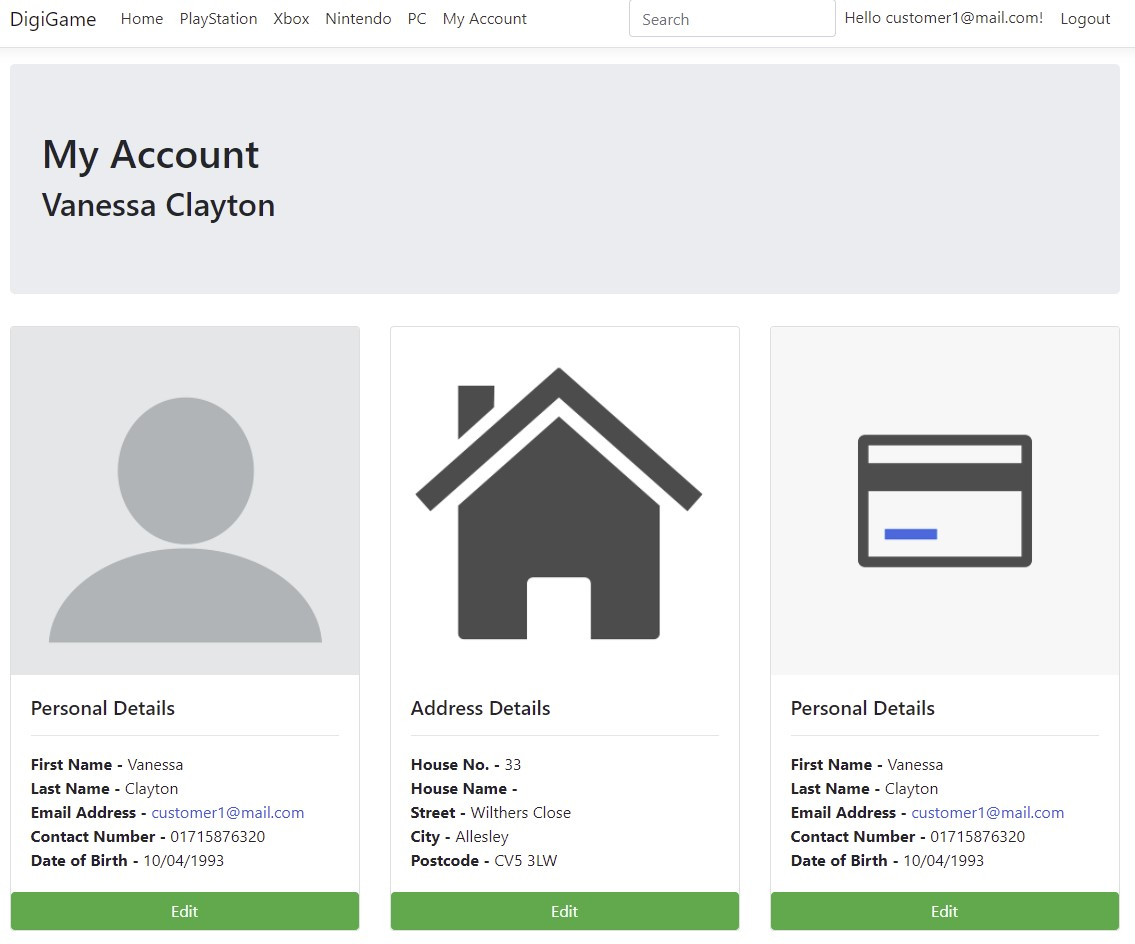
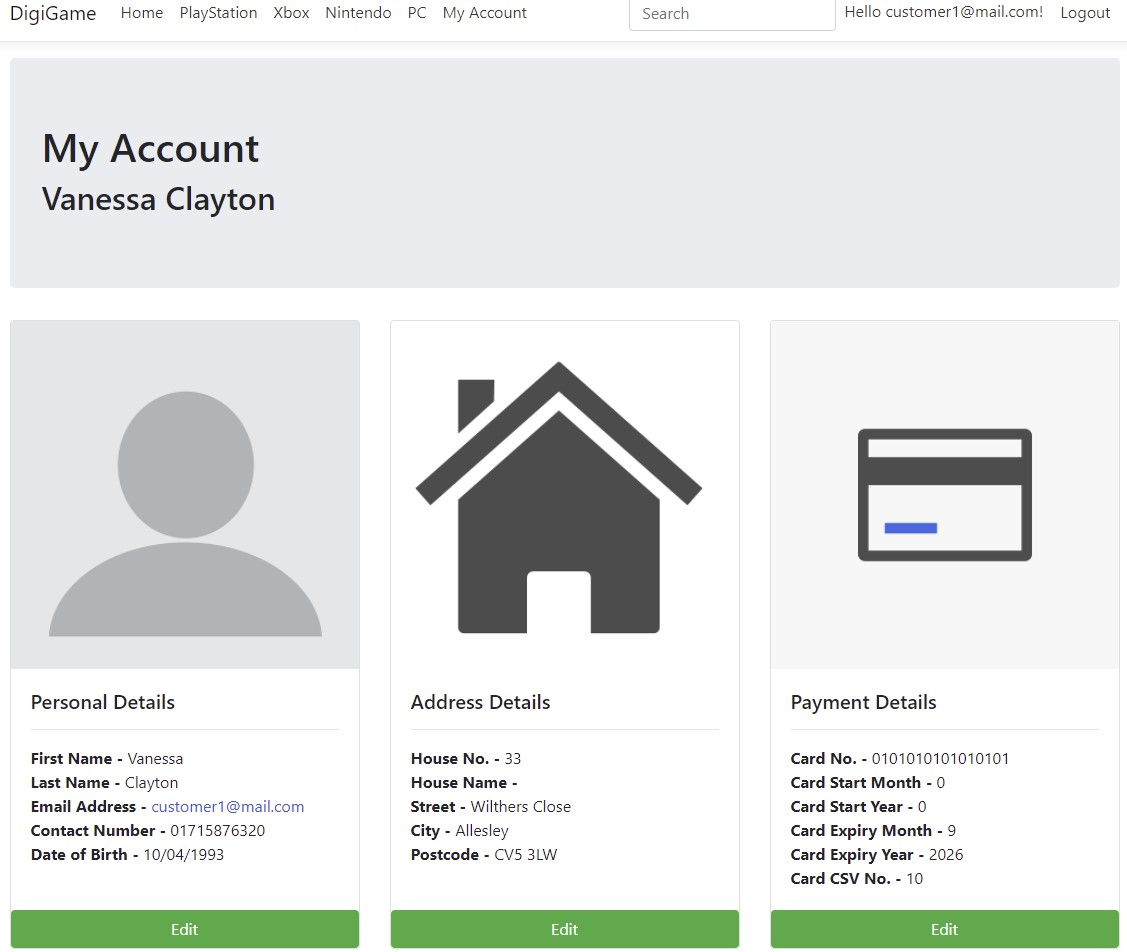
Fixed tests 16-17 and 19-20. Also added more test screenshots.

diff --git a/ASP-Razor-TeamEXPFarmers/Data/Migrations/20220126140607_NullableStaff.cs b/ASP-Razor-TeamEXPFarmers/Data/Migrations/20220126140607_NullableStaff.cs
@@ -1,0 +1,139 @@
+using Microsoft.EntityFrameworkCore.Migrations;
+
+namespace ASP_Razor_TeamEXPFarmers.Migrations
+{
+    public partial class NullableStaff : Migration
+    {
+        protected override void Up(MigrationBuilder migrationBuilder)
+        {
+            migrationBuilder.DropForeignKey(
+                name: "FK_Customers_Address_AddressID",
+                table: "Customers");
+
+            migrationBuilder.DropForeignKey(
+                name: "FK_Customers_Payment_PaymentID",
+                table: "Customers");
+
+            migrationBuilder.AlterColumn<string>(
+                name: "URL",
+                table: "GameImages",
+                type: "nvarchar(200)",
+                maxLength: 200,
+                nullable: false,
+                defaultValue: "",
+                oldClrType: typeof(string),
+                oldType: "nvarchar(max)",
+                oldNullable: true);
+
+            migrationBuilder.AlterColumn<string>(
+                name: "Caption",
+                table: "GameImages",
+                type: "nvarchar(50)",
+                maxLength: 50,
+                nullable: false,
+                defaultValue: "",
+                oldClrType: typeof(string),
+                oldType: "nvarchar(50)",
+                oldMaxLength: 50,
+                oldNullable: true);
+
+            migrationBuilder.AlterColumn<int>(
+                name: "PaymentID",
+                table: "Customers",
+                type: "int",
+                nullable: true,
+                oldClrType: typeof(int),
+                oldType: "int");
+
+            migrationBuilder.AlterColumn<int>(
+                name: "AddressID",
+                table: "Customers",
+                type: "int",
+                nullable: true,
+                oldClrType: typeof(int),
+                oldType: "int");
+
+            migrationBuilder.AddForeignKey(
+                name: "FK_Customers_Address_AddressID",
+                table: "Customers",
+                column: "AddressID",
+                principalTable: "Address",
+                principalColumn: "AddressID",
+                onDelete: ReferentialAction.Restrict);
+
+            migrationBuilder.AddForeignKey(
+                name: "FK_Customers_Payment_PaymentID",
+                table: "Customers",
+                column: "PaymentID",
+                principalTable: "Payment",
+                principalColumn: "PaymentID",
+                onDelete: ReferentialAction.Restrict);
+        }
+
+        protected override void Down(MigrationBuilder migrationBuilder)
+        {
+            migrationBuilder.DropForeignKey(
+                name: "FK_Customers_Address_AddressID",
+                table: "Customers");
+
+            migrationBuilder.DropForeignKey(
+                name: "FK_Customers_Payment_PaymentID",
+                table: "Customers");
+
+            migrationBuilder.AlterColumn<string>(
+                name: "URL",
+                table: "GameImages",
+                type: "nvarchar(max)",
+                nullable: true,
+                oldClrType: typeof(string),
+                oldType: "nvarchar(200)",
+                oldMaxLength: 200);
+
+            migrationBuilder.AlterColumn<string>(
+                name: "Caption",
+                table: "GameImages",
+                type: "nvarchar(50)",
+                maxLength: 50,
+                nullable: true,
+                oldClrType: typeof(string),
+                oldType: "nvarchar(50)",
+                oldMaxLength: 50);
+
+            migrationBuilder.AlterColumn<int>(
+                name: "PaymentID",
+                table: "Customers",
+                type: "int",
+                nullable: false,
+                defaultValue: 0,
+                oldClrType: typeof(int),
+                oldType: "int",
+                oldNullable: true);
+
+            migrationBuilder.AlterColumn<int>(
+                name: "AddressID",
+                table: "Customers",
+                type: "int",
+                nullable: false,
+                defaultValue: 0,
+                oldClrType: typeof(int),
+                oldType: "int",
+                oldNullable: true);
+
+            migrationBuilder.AddForeignKey(
+                name: "FK_Customers_Address_AddressID",
+                table: "Customers",
+                column: "AddressID",
+                principalTable: "Address",
+                principalColumn: "AddressID",
+                onDelete: ReferentialAction.Cascade);
+
+            migrationBuilder.AddForeignKey(
+                name: "FK_Customers_Payment_PaymentID",
+                table: "Customers",
+                column: "PaymentID",
+                principalTable: "Payment",
+                principalColumn: "PaymentID",
+                onDelete: ReferentialAction.Cascade);
+        }
+    }
+}

diff --git a/ASP-Razor-TeamEXPFarmers/Pages/Payments/Edit.cshtml.cs b/ASP-Razor-TeamEXPFarmers/Pages/Payments/Edit.cshtml.cs
@@ -8,9 +8,11 @@ using Microsoft.AspNetCore.Mvc.Rendering;
 using Microsoft.EntityFrameworkCore;
 using ASP_Razor_TeamEXPFarmers.Data;
 using ASP_Razor_TeamEXPFarmers.Models;
+using Microsoft.AspNetCore.Authorization;
 
 namespace ASP_Razor_TeamEXPFarmers.Pages.Payments
 {
+    [Authorize]
     public class EditModel : PageModel
     {
         private readonly ASP_Razor_TeamEXPFarmers.Data.ApplicationDbContext _context;
@@ -66,7 +68,14 @@ namespace ASP_Razor_TeamEXPFarmers.Pages.Payments
                 }
             }
 
-            return RedirectToPage("./Index");
+            if (HomePage.Name == HomePage.CUSTOMERS)
+            {
+                return RedirectToPage("./Index");
+            }
+            else
+            {
+                return RedirectToPage("/MyAccount");
+            }
         }
 
         private bool PaymentExists(int id)

diff --git a/ASP-Razor-TeamEXPFarmers/Data/Migrations/20220126140607_NullableStaff.Designer.cs b/ASP-Razor-TeamEXPFarmers/Data/Migrations/20220126140607_NullableStaff.Designer.cs
@@ -4,14 +4,16 @@ using ASP_Razor_TeamEXPFarmers.Data;
 using Microsoft.EntityFrameworkCore;
 using Microsoft.EntityFrameworkCore.Infrastructure;
 using Microsoft.EntityFrameworkCore.Metadata;
+using Microsoft.EntityFrameworkCore.Migrations;
 using Microsoft.EntityFrameworkCore.Storage.ValueConversion;
 
 namespace ASP_Razor_TeamEXPFarmers.Migrations
 {
     [DbContext(typeof(ApplicationDbContext))]
-    partial class ApplicationDbContextModelSnapshot : ModelSnapshot
+    [Migration("20220126140607_NullableStaff")]
+    partial class NullableStaff
     {
-        protected override void BuildModel(ModelBuilder modelBuilder)
+        protected override void BuildTargetModel(ModelBuilder modelBuilder)
         {
 #pragma warning disable 612, 618
             modelBuilder

diff --git a/ASP-Razor-TeamEXPFarmers/Pages/OrderItems/Delete.cshtml.cs b/ASP-Razor-TeamEXPFarmers/Pages/OrderItems/Delete.cshtml.cs
@@ -7,9 +7,11 @@ using Microsoft.AspNetCore.Mvc.RazorPages;
 using Microsoft.EntityFrameworkCore;
 using ASP_Razor_TeamEXPFarmers.Data;
 using ASP_Razor_TeamEXPFarmers.Models;
+using Microsoft.AspNetCore.Authorization;
 
 namespace ASP_Razor_TeamEXPFarmers.Pages.OrderItems
 {
+    [Authorize(Roles = "Staff")]
     public class DeleteModel : PageModel
     {
         private readonly ASP_Razor_TeamEXPFarmers.Data.ApplicationDbContext _context;

diff --git a/ASP-Razor-TeamEXPFarmers/Pages/OrderItems/Index.cshtml.cs b/ASP-Razor-TeamEXPFarmers/Pages/OrderItems/Index.cshtml.cs
@@ -7,9 +7,11 @@ using Microsoft.AspNetCore.Mvc.RazorPages;
 using Microsoft.EntityFrameworkCore;
 using ASP_Razor_TeamEXPFarmers.Data;
 using ASP_Razor_TeamEXPFarmers.Models;
+using Microsoft.AspNetCore.Authorization;
 
 namespace ASP_Razor_TeamEXPFarmers.Pages.OrderItems
 {
+    [Authorize(Roles = "Staff")]
     public class IndexModel : PageModel
     {
         private readonly ASP_Razor_TeamEXPFarmers.Data.ApplicationDbContext _context;

diff --git a/ASP-Razor-TeamEXPFarmers/Pages/OrderItems/Edit.cshtml.cs b/ASP-Razor-TeamEXPFarmers/Pages/OrderItems/Edit.cshtml.cs
@@ -8,9 +8,11 @@ using Microsoft.AspNetCore.Mvc.Rendering;
 using Microsoft.EntityFrameworkCore;
 using ASP_Razor_TeamEXPFarmers.Data;
 using ASP_Razor_TeamEXPFarmers.Models;
+using Microsoft.AspNetCore.Authorization;
 
 namespace ASP_Razor_TeamEXPFarmers.Pages.OrderItems
 {
+    [Authorize(Roles = "Staff")]
     public class EditModel : PageModel
     {
         private readonly ASP_Razor_TeamEXPFarmers.Data.ApplicationDbContext _context;

diff --git a/ASP-Razor-TeamEXPFarmers/Pages/Payments/Index.cshtml.cs b/ASP-Razor-TeamEXPFarmers/Pages/Payments/Index.cshtml.cs
@@ -7,9 +7,11 @@ using Microsoft.AspNetCore.Mvc.RazorPages;
 using Microsoft.EntityFrameworkCore;
 using ASP_Razor_TeamEXPFarmers.Data;
 using ASP_Razor_TeamEXPFarmers.Models;
+using Microsoft.AspNetCore.Authorization;
 
 namespace ASP_Razor_TeamEXPFarmers.Pages.Payments
 {
+    [Authorize(Roles = "Staff")]
     public class IndexModel : PageModel
     {
         private readonly ASP_Razor_TeamEXPFarmers.Data.ApplicationDbContext _context;

diff --git a/ASP-Razor-TeamEXPFarmers/Pages/Orders/Index.cshtml.cs b/ASP-Razor-TeamEXPFarmers/Pages/Orders/Index.cshtml.cs
@@ -7,9 +7,11 @@ using Microsoft.AspNetCore.Mvc.RazorPages;
 using Microsoft.EntityFrameworkCore;
 using ASP_Razor_TeamEXPFarmers.Data;
 using ASP_Razor_TeamEXPFarmers.Models;
+using Microsoft.AspNetCore.Authorization;
 
 namespace ASP_Razor_TeamEXPFarmers.Pages.Orders
 {
+    [Authorize(Roles = "Staff")]
     public class IndexModel : PageModel
     {
         private readonly ASP_Razor_TeamEXPFarmers.Data.ApplicationDbContext _context;

diff --git a/ASP-Razor-TeamEXPFarmers/Pages/Orders/Edit.cshtml.cs b/ASP-Razor-TeamEXPFarmers/Pages/Orders/Edit.cshtml.cs
@@ -8,9 +8,11 @@ using Microsoft.AspNetCore.Mvc.Rendering;
 using Microsoft.EntityFrameworkCore;
 using ASP_Razor_TeamEXPFarmers.Data;
 using ASP_Razor_TeamEXPFarmers.Models;
+using Microsoft.AspNetCore.Authorization;
 
 namespace ASP_Razor_TeamEXPFarmers.Pages.Orders
 {
+    [Authorize(Roles = "Staff")]
     public class EditModel : PageModel
     {
         private readonly ASP_Razor_TeamEXPFarmers.Data.ApplicationDbContext _context;

diff --git a/ASP-Razor-TeamEXPFarmers/Pages/OrderItems/Create.cshtml.cs b/ASP-Razor-TeamEXPFarmers/Pages/OrderItems/Create.cshtml.cs
@@ -7,9 +7,11 @@ using Microsoft.AspNetCore.Mvc.RazorPages;
 using Microsoft.AspNetCore.Mvc.Rendering;
 using ASP_Razor_TeamEXPFarmers.Data;
 using ASP_Razor_TeamEXPFarmers.Models;
+using Microsoft.AspNetCore.Authorization;
 
 namespace ASP_Razor_TeamEXPFarmers.Pages.OrderItems
 {
+    [Authorize]
     public class CreateModel : PageModel
     {
         private readonly ASP_Razor_TeamEXPFarmers.Data.ApplicationDbContext _context;

diff --git a/ASP-Razor-TeamEXPFarmers/Pages/Payments/Create.cshtml.cs b/ASP-Razor-TeamEXPFarmers/Pages/Payments/Create.cshtml.cs
@@ -7,9 +7,11 @@ using Microsoft.AspNetCore.Mvc.RazorPages;
 using Microsoft.AspNetCore.Mvc.Rendering;
 using ASP_Razor_TeamEXPFarmers.Data;
 using ASP_Razor_TeamEXPFarmers.Models;
+using Microsoft.AspNetCore.Authorization;
 
 namespace ASP_Razor_TeamEXPFarmers.Pages.Payments
 {
+    [Authorize]
     public class CreateModel : PageModel
     {
         private readonly ASP_Razor_TeamEXPFarmers.Data.ApplicationDbContext _context;

diff --git a/ASP-Razor-TeamEXPFarmers/Pages/OrderItems/Details.cshtml.cs b/ASP-Razor-TeamEXPFarmers/Pages/OrderItems/Details.cshtml.cs
@@ -7,9 +7,11 @@ using Microsoft.AspNetCore.Mvc.RazorPages;
 using Microsoft.EntityFrameworkCore;
 using ASP_Razor_TeamEXPFarmers.Data;
 using ASP_Razor_TeamEXPFarmers.Models;
+using Microsoft.AspNetCore.Authorization;
 
 namespace ASP_Razor_TeamEXPFarmers.Pages.OrderItems
 {
+    [Authorize]
     public class DetailsModel : PageModel
     {
         private readonly ASP_Razor_TeamEXPFarmers.Data.ApplicationDbContext _context;
